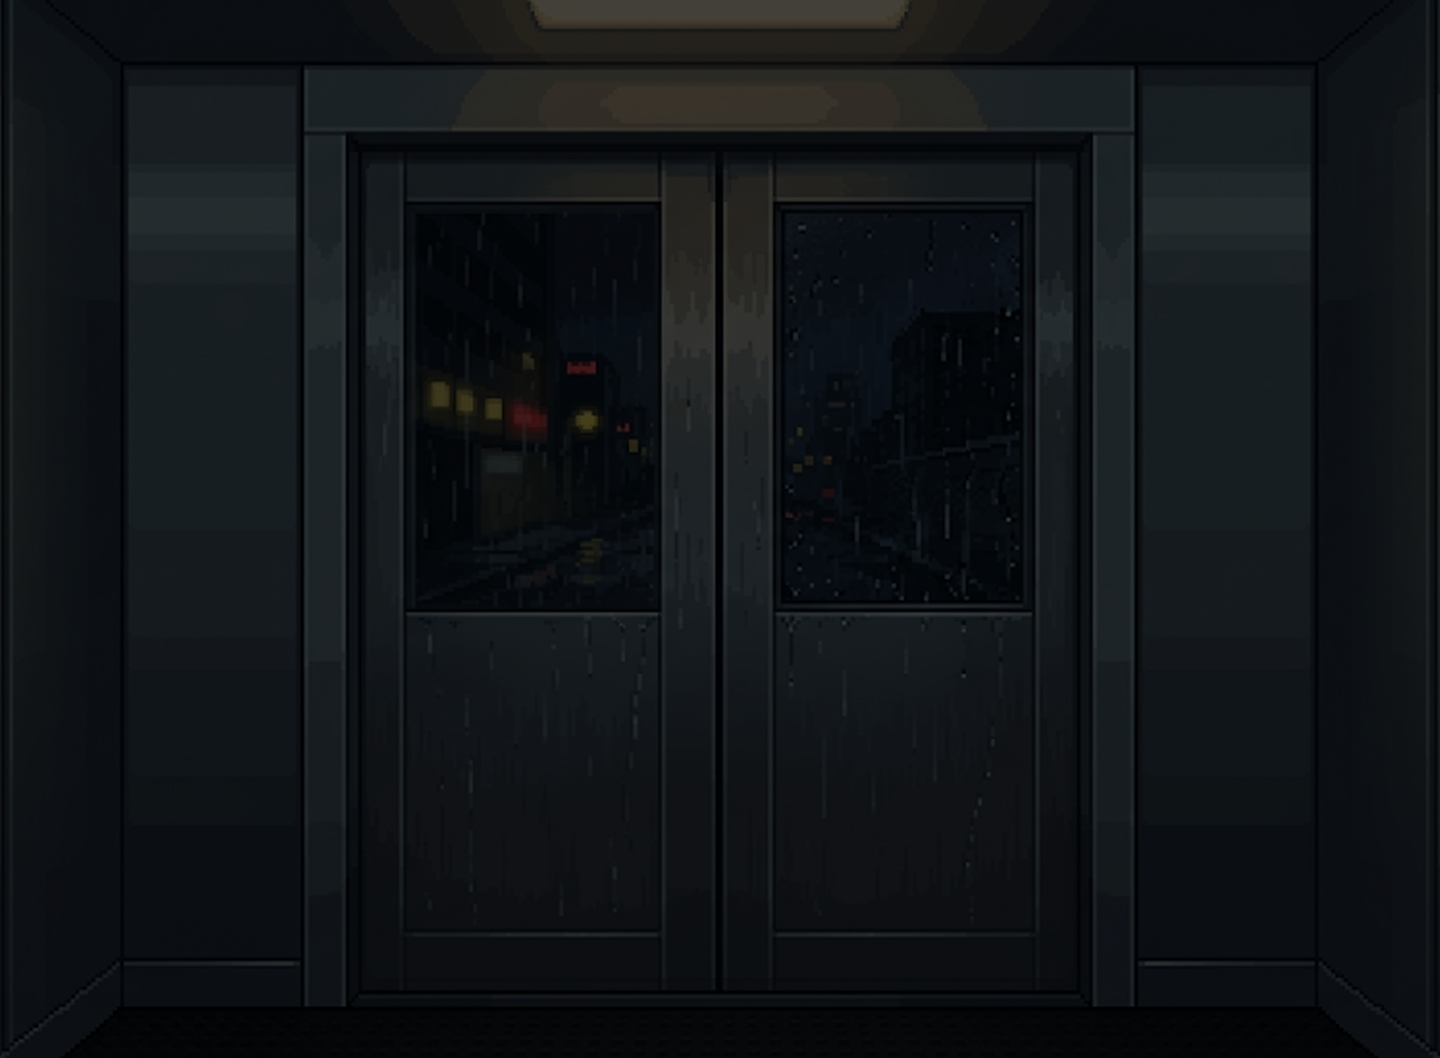
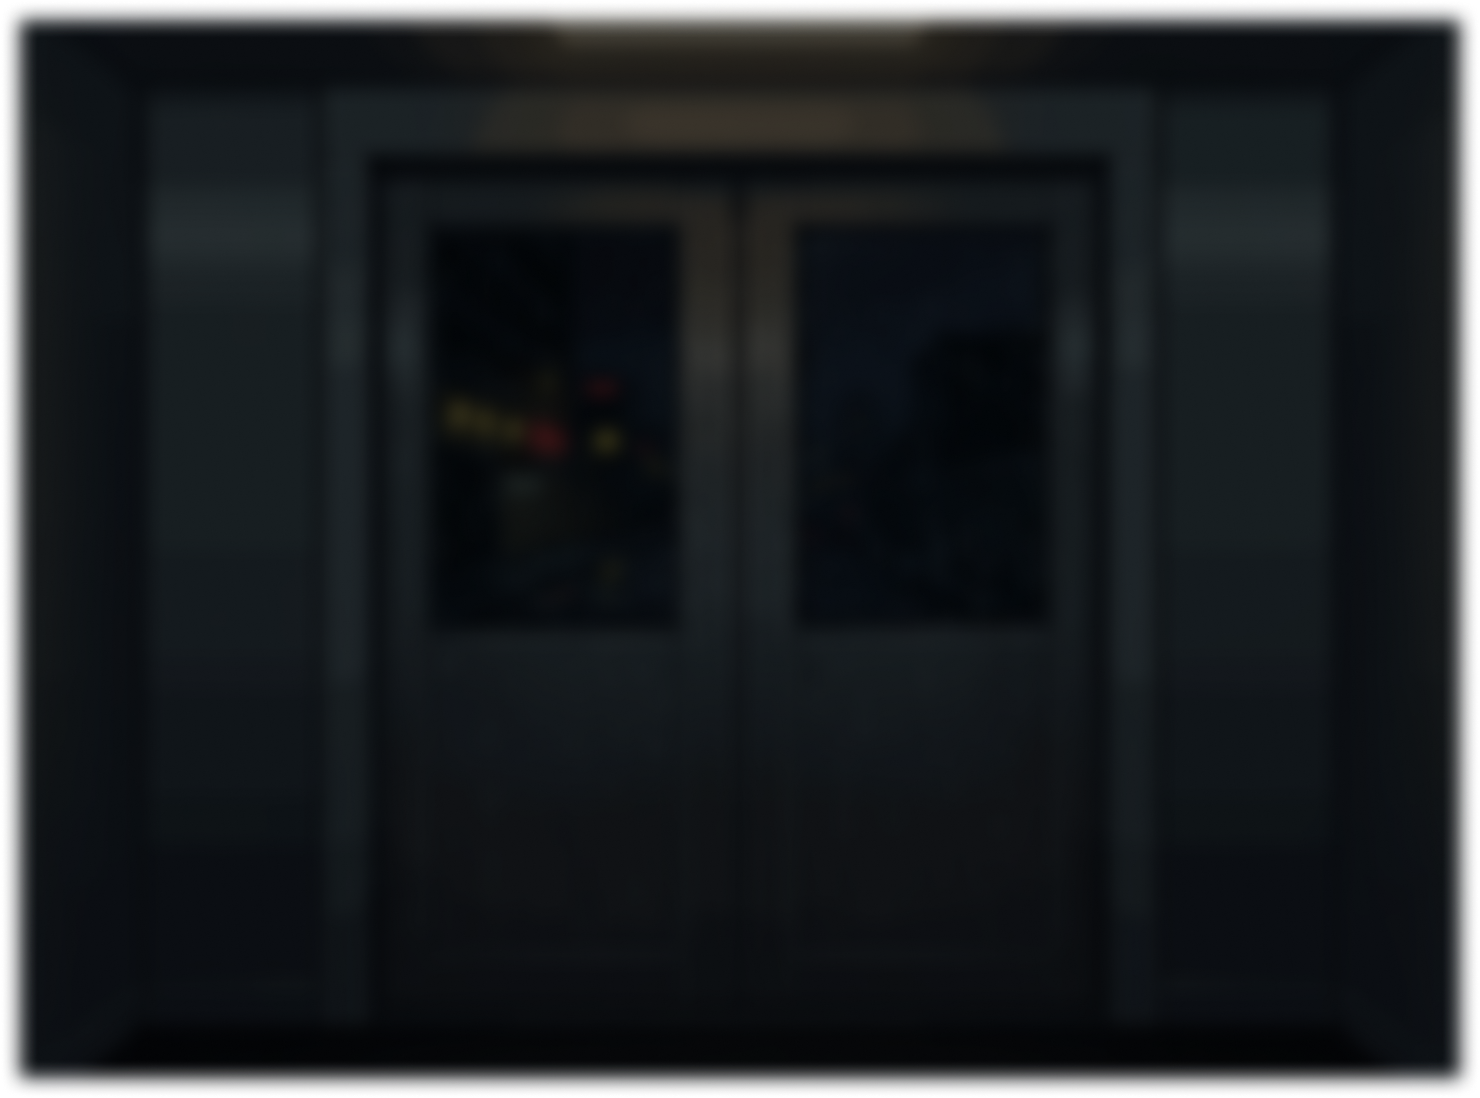
painel

diff --git a/public/css/painel.css b/public/css/painel.css
@@ -5,22 +5,15 @@
     font-family: "Pixelify Sans", sans-serif;
 }
 
-.container {
-    background-image: url("../assets/imgs/painel/background.png");
-    background-repeat: no-repeat;
-    background-position: center;
-    background-size: cover;
-    min-height: 48vw;
-    display: flex;
-    justify-content: center;
-    filter: blur(6px);
+html,
+body {
+    width: 100%;
+    height: 100%;
+    overflow: hidden;
 }
 
-.container-painel {
-    align-items: center;
-    display: flex;
-    justify-content: center;
-    width: 800px;
+body {
+    background: black;
 }
 
 #transicao {
@@ -35,4 +28,115 @@
 
 #transicao.fade-open {
     opacity: 0;
+}
+
+.container {
+    align-items: center;
+    background-image: url("../assets/imgs/painel/background.png");
+    background-repeat: no-repeat;
+    background-position: center;
+    background-size: cover;
+    display: flex;
+    flex-direction: column;
+    justify-content: center;
+    transition: filter 1s ease, transform 1s ease;
+    min-height: 100vh;
+    width: 100vw;
+}
+
+.caixa-login {
+    position: absolute;
+    top: 30px;
+    right: 30px;
+}
+
+.caixa-login button {
+    background-color: rgba(67, 78, 76, 0.911);
+    border: none;
+    color: #F8EBFF;
+    cursor: pointer;
+    font-size: 25px;
+    height: 50px;
+    width: 100px;
+}
+
+.container-ativo {
+    filter: blur(6px);
+    transform: scale(1.03);
+}
+
+
+.container-painel {
+    align-items: center;
+    display: flex;
+    justify-content: center;
+    flex-direction: column;
+    width: 800px;
+}
+
+.painel-botoes {
+    align-items: center;
+    background-image: url("../assets/imgs/painel/painel-elevador.png");
+    background-repeat: no-repeat;
+    background-position: center;
+    background-size: cover;
+    display: flex;
+    justify-content: center;
+    flex-direction: column;
+    height: 900px;
+    width: 900px;
+}
+
+.titulo-painel {
+    color: #F8EBFF;
+    font-size: 30px;
+}
+
+.box-botoes {
+    display: flex;
+    flex-direction: column;
+    gap: 46px;
+    margin-right: 18px;
+    margin-bottom: 13px;
+}
+
+.botao-pai {
+    display: flex;
+    flex-direction: row;
+    gap: 58px;
+}
+
+.botao-baixo {
+    margin-bottom: -12px;
+}
+
+.botao-filho {
+    align-items: center;
+    display: flex;
+    height: 58px;
+    justify-content: center;
+    text-align: center;
+    width: 130px;
+}
+
+.botao-filho a {
+    color: #2E2E52;
+    display: flex;
+    align-items: center;
+    justify-content: center;
+    text-decoration: none;
+    font-size: 25px;
+    height: 100%;
+    width: 100%;
+    cursor: pointer;
+}
+
+.botao-filho:hover,
+.caixa-login button:hover {
+    filter: brightness(1.52);
+}
+
+.botao-filho a:active,
+.caixa-login button:active {
+    transform: translate(2px, 2px);
 }

diff --git a/public/pages/painel.html b/public/pages/painel.html
@@ -11,43 +11,34 @@
   </head>
   <body>
     <div id="transicao"></div>
-    <div class="container">
+    <div class="container" id="container">
+      <div class="caixa-login"><button>Login</button></div>
       <div class="container-painel">
+        <div class="titulo-painel"><h2>Escolha o seu andar</h2></div>
         <div class="painel-botoes">
           <div class="box-botoes">
             <div class="botao-pai">
               <div class="botao-filho">
-                <a href="andarJulia.html">Júlia</a>
+                <a href="andarJulia.html" id="julia">Andar Julia</a>
               </div>
               <div class="botao-filho">
-                <a href="andarDebora.html">Debora</a>
-              </div>
-            </div>
-            <div class="botao-pai">
-              <div class="botao-filho">
-               <a href="andarJulia.html">Andar Juntas</a>
-              </div>
-              <div class="botao-filho">
-                <a href="andarAnna.html">Anna</a>
+                <a href="andarDebora.html" id="debora">Andar Débora</a>
               </div>
             </div>
             <div class="botao-pai">
               <div class="botao-filho">
-                <a href="andarIsa.html">Isa</a>
+               <a href="quiz.html" id="quiz">Quizzes</a>
               </div>
               <div class="botao-filho">
-                <a href="andarSamu.html">Samuel</a>
+                <a href="dashboard.html" id="dash">Dashboard</a>
               </div>
             </div>
-            <div class="botao-pai">
+            <div class="botao-pai botao-baixo">
               <div class="botao-filho">
-                <a href="/pages/quiz.html">Quiz</a>
+                <a href="andarJuntas.html" id="juntas">Andar juntas</a>
               </div>
               <div class="botao-filho">
-               <a href="dashboard.html">Dashboard</a>
-              </div>
-              <div class="botao-filho">
-               <a href="/pages/chat.html">Chat</a>
+                <a href="chat.html" id="chat">Chat</a>
               </div>
             </div>
           </div>
@@ -57,14 +48,18 @@
   </body>
 </html>
 
-<script>
+    <script>
+        window.onload = function () {
+            const transicao = document.getElementById("transicao");
 
-  window.onload = function () {
-      const transicao = document.getElementById("transicao");
+            setTimeout(() => {
+                transicao.classList.add("fade-open");
+            }, 500);
+        }
 
-      setTimeout(() => {
-          transicao.classList.add("fade-open");
-      }, 500);
-  }
-
-</script>
+        function aplicarBlur() {
+            document
+                .getElementById("container")
+                .classList.add("container-ativo");
+        }
+    </script>